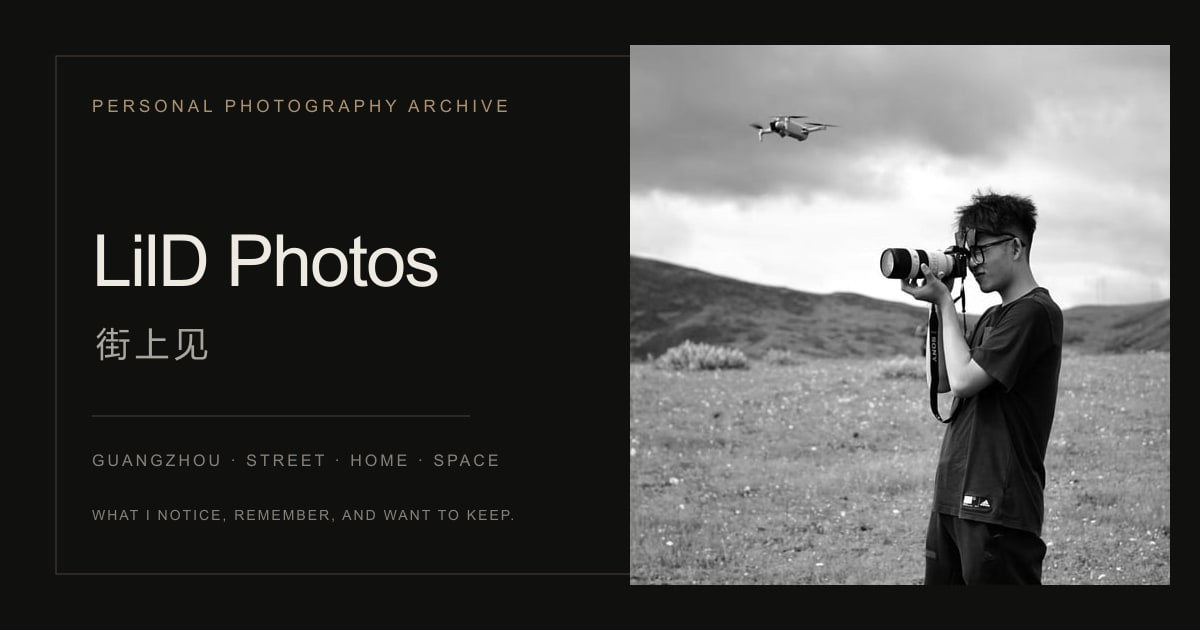
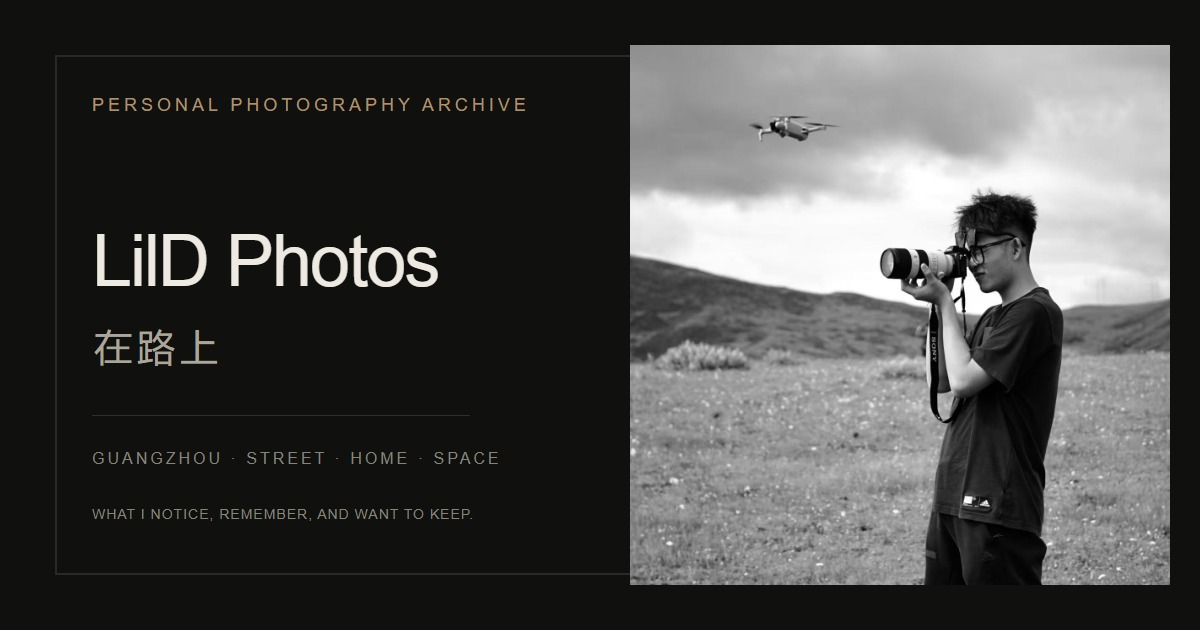
Rename site to On the Way and update author stories

diff --git a/index.html b/index.html
@@ -5,38 +5,38 @@
     <meta name="viewport" content="width=device-width, initial-scale=1" />
     <meta
       name="description"
-      content="LilD 的个人摄影作品集，记录广州街头、家乡、建筑、风光与旅途中的日常观察。"
+      content="在路上 · LilD 的个人摄影档案，记录街头、故乡、建筑与旅途。摄影之路仍在继续，下一组照片永远在路上。"
     />
     <meta name="theme-color" content="#10100f" />
     <meta name="color-scheme" content="dark" />
     <link rel="canonical" href="https://lhdfwoaini.github.io/lildphotos/" />
-    <meta property="og:title" content="LilD Photos｜街上见" />
+    <meta property="og:title" content="LilD Photos｜在路上" />
     <meta
       property="og:description"
-      content="LilD 的个人摄影作品集，记录广州街头、家乡、建筑、风光与旅途中的日常观察。"
+      content="在路上 · LilD 的个人摄影档案，记录街头、故乡、建筑与旅途。摄影之路仍在继续，下一组照片永远在路上。"
     />
     <meta property="og:type" content="website" />
     <meta property="og:url" content="https://lhdfwoaini.github.io/lildphotos/" />
     <meta
       property="og:image"
-      content="https://lhdfwoaini.github.io/lildphotos/share-cover.jpg"
+      content="https://lhdfwoaini.github.io/lildphotos/share-cover.jpg?v=20261112-on-the-way"
     />
     <meta property="og:image:width" content="1200" />
     <meta property="og:image:height" content="630" />
-    <meta property="og:image:alt" content="LilD Photos｜街上见个人摄影作品集" />
+    <meta property="og:image:alt" content="LilD Photos｜在路上个人摄影作品集" />
     <meta name="twitter:card" content="summary_large_image" />
-    <meta name="twitter:title" content="LilD Photos｜街上见" />
+    <meta name="twitter:title" content="LilD Photos｜在路上" />
     <meta
       name="twitter:description"
-      content="LilD 的个人摄影作品集，记录广州街头、家乡、建筑、风光与旅途中的日常观察。"
+      content="在路上 · LilD 的个人摄影档案，记录街头、故乡、建筑与旅途。摄影之路仍在继续，下一组照片永远在路上。"
     />
     <meta
       name="twitter:image"
-      content="https://lhdfwoaini.github.io/lildphotos/share-cover.jpg"
+      content="https://lhdfwoaini.github.io/lildphotos/share-cover.jpg?v=20261112-on-the-way"
     />
-    <meta name="twitter:image:alt" content="LilD Photos｜街上见个人摄影作品集" />
+    <meta name="twitter:image:alt" content="LilD Photos｜在路上个人摄影作品集" />
     <link rel="icon" href="favicon.svg" type="image/svg+xml" />
-    <title>LilD Photos｜街上见</title>
+    <title>LilD Photos｜在路上</title>
     <style>
       :root {
         --paper: #151310;
@@ -4641,12 +4641,19 @@
           max-width: none;
         }
       }
+
+      /* Longer author statements retain the existing About section and typography. */
+      .about-copy { grid-column: 2 / -1; min-width: 0; max-width: 68ch; }
+      .about-copy p { margin: 0 0 1.15em; line-height: 1.9; }
+      .about-copy .about-copyright { margin-bottom: 0; color: var(--text-muted); font-size: 0.82rem; }
+      #series-note, .lightbox-note { white-space: pre-line; }
+      @media (max-width: 1000px) { .about-copy { grid-column: 1 / -1; } }
     </style>
   </head>
   <body>
     <header class="site-header">
       <a class="wordmark" href="#home" aria-label="回到首页">
-        <span class="desktop-brand">街上见 <i aria-hidden="true">|</i> LilD Photos</span><span class="mobile-brand">LilD Photos</span>
+        <span class="desktop-brand">在路上 <i aria-hidden="true">|</i> LilD Photos</span><span class="mobile-brand">在路上 | LilD Photos</span>
       </a>
       <button
         class="menu-button"
@@ -4662,7 +4669,6 @@
         <a id="nav-home" href="#home">首页</a>
         <a id="nav-works" href="#works">作品</a>
         <a id="nav-series" href="#series-groups">栏目</a>
-        <a id="nav-notes" href="#notes">札记</a>
         <a id="nav-about" href="#about">关于</a>
       </nav>
     </header>
@@ -4679,7 +4685,7 @@
             <p class="about-positioning">
               我常住广州，也持续关注城市里的劳动者、熟悉的家乡，以及人在具体空间中短暂停留的样子。
             </p>
-            <p>希望这些照片，能让你看到我所看见的片刻。</p>
+            <p>摄影之路还远远没有结束，下一组照片，永远在路上。</p>
             <p class="about-english">A personal archive of what I notice, remember, and want to keep.</p>
             <a class="primary-link" href="#works">浏览作品 <span aria-hidden="true">↓</span></a>
           </div>
@@ -4711,32 +4717,19 @@
           <noscript>请在浏览器中启用 JavaScript，以查看摄影栏目和作品弹窗。</noscript>
         </section>
 
-        <section class="notes-section is-compact" id="notes" aria-labelledby="notes-title">
-          <div class="notes-index" aria-hidden="true">
-            <span>NOTE</span>
-            <span>FIELD NOTE</span>
-          </div>
-          <div class="notes-copy">
-            <p class="section-kicker">FIELD NOTE / 拍摄札记</p>
-            <h2 id="notes-title">拍摄札记，慢慢补充</h2>
-            <p class="notes-placeholder">这里将记录一些拍摄现场、构图选择和后来想起的事情。</p>
-          </div>
-        </section>
-
         <section class="about-section" id="about" aria-labelledby="about-title">
           <div>
             <p class="section-kicker">ABOUT / 关于</p>
-            <h2 id="about-title">一份持续生长的个人摄影档案</h2>
+            <h2 id="about-title">一份持续生长的<br />个人摄影档案</h2>
           </div>
-          <p>
-            这里收录不同阶段的摄影栏目、组图、拍摄札记和单幅解读。新的照片会继续加入，也会保留尚未完成的系列，让整理本身成为拍摄的一部分。
-          </p>
-          <p>
-            本站照片版权归作者所有，未经许可请勿转载、复制或用于商业用途。
-          </p>
+          <div class="about-copy">
+            <p>我把这个网站叫作“在路上”，因为自己的摄影之路还远远没有结束。这里收录不同阶段的栏目、组图与单幅解读，也保留尚未完成的系列。新的照片会继续加入，下一组照片，永远在路上。</p>
+            <p>好摄影从来没有唯一的标尺。有人痴迷于光影与构图的精巧，有人动容于故事里的人文温度，也有人被瞬间定格的视觉张力震撼，或偏爱作品背后的深刻思考。不同的人有不同的感受，摄影也没有一个标准答案。我希望这份档案能容纳这些不同的观看，也记录自己不断变化的理解。</p>
+            <p class="about-copyright">本站照片版权归作者所有，未经许可请勿转载、复制或用于商业用途。</p>
+          </div>
           <div class="next-series">
             <span>NEXT SERIES</span>
-            <strong>下一组照片，仍在路上</strong>
+            <strong>下一组照片，永远在路上</strong>
           </div>
         </section>
       </div>
@@ -4793,7 +4786,7 @@
     </main>
 
     <footer>
-      <a class="wordmark small" href="#home">街上见 | LilD Photos</a>
+      <a class="wordmark small" href="#home">在路上 | LilD Photos</a>
       <p>个人摄影作品集 · 持续更新</p>
       <p>© 2026 LilD Photos · 摄影作品版权归作者所有</p>
     </footer>
@@ -6627,6 +6620,35 @@
       updateWork("documentary", "04", {"scene": "华南理工大学国际校区"});
       updateWork("documentary", "06", {"scene": "广州 · 广交会展馆内"});
 
+
+      /* 2026-11-12 作者补充：在路上、栏目背景及单幅拍摄记录。 */
+      Object.assign(seriesById["tuoche-rensheng"], {"description": "从初中起在广州天河读书、生活，我熟悉这里的繁荣。搬到广州东站旁边后，沙河街头推车人的日夜奔波，让我看见了另一种同样真实的广州。", "note": "我在广州生活了很多年，从初中起就在天河区上学，也见惯了这里的繁荣与发展。后来搬到广州东站旁边，才开始注意到沙河街头那些每天推着手推车、日夜奔波的人。繁华的城市里，同样留下了普通劳动者为生活忙碌的痕迹。\n\n劳动人民也是广州的一部分。我想记录这份不常被外人看见的日常，让他们运货、合作、交流和休息时真实而有温度的一面被看见。我希望带着尊重靠近他们，不用镜头猎奇，也不把困境当作看点。这组关于推车与推车人的照片，就从这样的想法开始。"});
+      Object.assign(seriesById["xiangjian-hechu"], {"description": "春节回到英德龙头山，我用胶片记录饭前饭后走过的村庄。这是我尝试拍摄自己心中“乡土中国”的一组照片，也记录着我对家乡不断变化的理解。", "note": "我一直希望拍出一组自己满意的“乡土中国”。比起多么震撼的大片，这更接近我作为一个人文纪实摄影师的愿望。随着年龄和阅历增长，我对它的理解经历了很多变化：童年的记忆、如今更深入的认识，以及乡村本身的变迁，让我不断重新看待家乡。这组照片，是一次初步尝试。\n\n我三四岁时离开家乡去英德生活，每逢过年仍会回来探望奶奶，和亲戚一起吃团圆饭。饭前饭后，我就带着胶片机出去走走。村里的年轻人大多已经外出，逢年过节才回来；照片里看似热闹的春节，一过完，村子又会归于寂静。我想留下的，是自己眼中家乡真实的样子。"});
+      Object.assign(seriesById["architecture"], {"description": "空间结构、线条和光影总能吸引我。无论建筑的局部还是整体，我都喜欢寻找其中的秩序，以及人和天空进入这些结构时的变化。", "note": "我是 INTJ，虽然没有学过建筑，却一直对空间结构、线条和光影很着迷。建筑的局部和整体都能带来拍摄灵感：一段楼梯、一片立面，或者抬头时被楼宇围出的天空。\n\n这里有不少照片拍于华南理工大学国际校区，我很喜欢那里新颖的设计和特别的立面。另一些照片是在楼宇内部向上拍的：规整的线条围住天空，飞机从中经过。我喜欢把这些结构与短暂出现的细节一起留在画面里。"});
+      Object.assign(seriesById["landscape"], {"description": "我的摄影爱好从风光开始。寻找机位、安排构图、学习参数，再到后期处理，这些步骤让我一点点熟悉摄影，也让我一直喜欢等待日落与晚霞。", "note": "刚入门摄影时，我拍得最多的是风光。拍摄前要了解机位，到现场后要考虑构图、参数和光线，拍完还要琢磨怎样做后期。每个环节都需要准备和练习，这对我学习摄影帮助很大。\n\n街头拍摄常常要回应眼前突然发生的瞬间，风光拍摄则让我学会提前规划和耐心等待。这里选了几张日落、晚霞的画面，因为我始终觉得，傍晚天空的颜色非常迷人。"});
+      Object.assign(seriesById["shandong"], {"description": "2025 年 8 月，我跟女朋友回山东探亲，也去了青岛和烟台。海边、建筑和晚霞留在照片里，其中烟台带给我的舒适与松弛，至今印象很深。", "note": "女朋友是山东人。2025 年 8 月，我跟她回家，也趁这次机会去了青岛和烟台。旅途中我最喜欢烟台：它让我想到广东的珠海，但对我来说，那片海带来的舒适感还要更强一些。珠海已经很安逸，烟台却让我更愿意慢下来。\n\n这里很多照片都拍于烟台：时光塔里的明暗、塔外女朋友的身影、长曝光下的海面，还有那天让我一直记着的满天红霞。它们是这趟旅程里，我想留下的具体片刻。", "location": "山东 · 青岛与烟台"});
+      Object.assign(seriesById["shenzhen"], {"description": "深圳离广州不远，却总让我这个老广感到节奏很快。这里新颖的建筑、空间与光线，又不断吸引我过去走走、拍拍。", "note": "每次去深圳，我都能感受到它飞快的发展和生活节奏，让我这个传统老广有一点不太适应。但这里前沿的设计和很有想法的建筑，又总能吸引我拿起相机。\n\n最近去深圳湾文化馆，里面大块的暖色形状、特别的窗洞和穿进来的光，让我很感兴趣。我拍下人在这些建筑空间里的位置，也继续寻找结构、光线和人物之间的关系。"});
+      Object.assign(seriesById["zhuhai"], {"description": "一个本科舍友在珠海生活，我们有时会过去相聚。聚会和闲逛之间，海边的建筑、台阶与日月贝，也成了我留下这座城市的方式。", "note": "我的一个本科舍友住在珠海，所以我们有时会去那里聚一聚，也顺便走走、拍照。我们拍过阿那亚那些很特别的建筑，也拍过日月贝。\n\n我很喜欢日月贝的形状，换一个机位、走到海边，或者把无人机升起来，又会看到不一样的画面。这个栏目里，和朋友相聚的经历与这些建筑、海面的印象留在了一起。"});
+      Object.assign(seriesById["hong-kong"], {"description": "和一位本科舍友同行，我拍下香港的老街、建筑与穿行的人流。这座城市浓厚的旧日痕迹，以及中环忙碌的街头，都给我留下了很深的印象。", "note": "这组照片来自我和一位本科舍友的香港之行。香港给我的第一感觉是“旧”：这座很早就发展起来的城市，在街景和建筑里保留了很多年月留下的痕迹，也有很鲜明的港味。\n\n我借鉴过何藩作品里的观看方式，也尝试用自己的快门记录眼前的城市。最满意的照片之一是《Busy》：我在中环用慢门留下人们穿过街道的身影，让路面清晰的提示字样与流动的人群，一起呈现忙碌的感觉。"});
+      updateWork("tuoche-rensheng", "01", {"summary": "盖着布的推车安静地沿墙停放。这一次，画面里只有人们谋生的工具，没有使用它们的人。", "note": "平时拍推车，我的画面里总离不开人。这一次，我特意只拍车，把人们谋生、工作的工具从人物身边单独记录下来。它们被布盖着，安安静静地停在墙边的角落。我想从这份安静开始，再走近使用它们的人，所以把它放在组图的第一张。"});
+      updateWork("tuoche-rensheng", "02", {"summary": "一个人坐着向左看，另一个人站着朝右望，推车与两个人一起停在路口，形成彼此呼应的关系。", "note": "两个人朝着不同方向，一个坐着，一个站着，推车把他们连接在同一个画面里。我从这个站位中感受到一种合作、彼此依靠的意味。\n\n路面通常留给机动车通行，推车停在其中，让我格外留意。在广州沙河，还能看到一些手推车被加装电动装置，像没有外壳的电动车，载货方便、使用灵活，成为劳动者日常运送货物的一种工具。这也是我想记录的沙河街头生活。"});
+      updateWork("tuoche-rensheng", "03", {"summary": "落日余晖照进桥下，几个人坐在推车上聊天，日常停靠的地方也成了交流与休息的位置。", "note": "落日余晖里，他们三五成群地坐在推车上交流。推车在这时成了可以一起坐下、说几句话的地方。我觉得这一幕很温暖，就把光线、人物和桥下的空间一起留下来。"});
+      updateWork("tuoche-rensheng", "04", {"summary": "早晨的树荫下，推车从近处排向远处。等开工的人在车上坐下或躺着，暂时歇一歇。", "note": "这是早晨等开工时的场景。从近处到远处，都能看见推车的身影，有人已经躺在车上休息。我把前后这些车和人一起留进画面，记录开工之前这段暂时停下来的时间。"});
+      updateWork("tuoche-rensheng", "05", {"summary": "桥下休息的人与推车分布在前景、中景和远处，三处位置相互呼应，形成一个三角形构图。", "note": "这一幕和树下等工的场景相近，但我特意选择了这个角度。前景、中景和背景里的三处人物与推车，形成远、中、近的三角形呼应。我想把他们休息的状态和这层空间关系一起拍下来。"});
+      updateWork("tuoche-rensheng", "06", {"summary": "一个人拖着推车向前，旁边另一辆相仿的车留在画面里，两辆车的形状与位置相互呼应。", "note": "为了拍到他带着推车前行的样子，我跟着走了一路。恰好旁边还有另一辆相仿的推车，我特意把两辆车都纳入构图，让它们的形状和前后位置形成呼应，也留下这个人继续上路的背影。"});
+      updateWork("architecture", "01", {"scene": "华南理工大学国际校区", "note": "我很喜欢国际校区的建筑。接近日落时，长立面只接住少量亮光，前方撑伞的人很小，却让整栋楼的尺度一下清楚。我按下快门，是因为建筑横向延伸的重量和人物经过的轻巧刚好同时出现。"});
+      updateWork("architecture", "02", {"scene": "华南理工大学国际校区"});
+      updateWork("architecture", "03", {"scene": "华南理工大学国际校区"});
+      updateWork("architecture", "04", {"scene": "华南理工大学国际校区"});
+      updateWork("shandong", "02", {"scene": "烟台 · 时光塔内部", "note": "这张拍于烟台时光塔内部。我把建筑内部压成黑色，只让小门、地面光带和外面场景留下细节。人物从门口经过时，身体和影子同时进入亮区，我抓住了这个时间点。真正吸引我的是建筑局部如何被光线打开。"});
+      updateWork("shandong", "03", {"scene": "烟台 · 时光塔内部", "note": "这张同样拍于烟台时光塔内部。我等到提桶的清洁工从暗处走出来才按下快门。弧形出口已经把地面照亮，人物正好进入明暗交界，轮廓边缘出现一圈光。我想留下的是这个经过的时机，以及人物和光的位置。"});
+      updateWork("shandong", "04", {"scene": "烟台 · 时光塔外", "summary": "女朋友走过时光塔外的开阔场地，大片天空和地面围绕着小小的身影展开。", "note": "画面里是我的女朋友，这张拍于烟台时光塔外。我把大部分画面留给天空和地面，让她只占其中很小的一部分。迈起的脚和张开的手臂，在空旷背景前变得清楚；我很喜欢这种小人物与大背景之间的比例。"});
+      updateWork("shandong", "05", {"scene": "烟台 · 海边", "note": "我在烟台海边，用长曝光把海面细小的波动压平，再转成黑白，让几根旧桩的高低、间隔和位置留在平滑的水面上。这种简洁、安静的感觉，让我想到杉本博司的《海景》系列。我喜欢的也是画面被简化之后，海面与线条之间的关系。"});
+      updateWork("shandong", "07", {"scene": "烟台 · 海边观景平台", "summary": "烟台的晚霞铺满海面上方，长曝光让水面与平台上经过的人影变得柔和。", "note": "我至今记得那天烟台满天的红霞，现场的震撼感一直留在记忆里。在我平日生活的广东，很少遇到这样的天空。我保留了晚霞的颜色，用长曝光让海面平缓下来，也让平台上经过的人留下流动的痕迹。"});
+      updateWork("hong-kong", "01", {"note": "这张照片借鉴了何藩曾在这里拍摄的楼梯作品。我对准楼梯中轴，等待左右两侧分别有人上行和下行。人物方向相反，扶手与台阶形成近似对称；我想用这一次遇到的人和经过的时机，回应自己喜欢的观看方式。"});
+      updateWork("hong-kong", "04", {"title": "Busy", "scene": "香港 · 中环街头", "summary": "中环街头，上下班的人流在慢门里留下移动的痕迹，路面“望左”“望右”的提示仍清楚地留在原处。", "note": "这是这趟香港之行里，我比较满意的一张。我在中环用较慢的快门，拍下人们上下班穿过街道的景象。路面的“望左”“望右”提醒行人留意车辆，人群却在画面里变成流动的身影。我想呈现这种不断穿行、忙碌不停的感觉，所以把它叫作《Busy》。"});
+      updateWork("zhuhai", "01", {"note": "和本科舍友在珠海相聚时，我们也去拍了这处与阿那亚有关的建筑。白色小屋落在草坡最高处，我用低机位让坡面先占据前景，再把建筑放到天空边缘，留下它清楚、特别的形状。"});
+
       const preferredSeriesOrder = [
         "tuoche-rensheng",
         "xiangjian-hechu",
@@ -6650,7 +6672,7 @@
       });
       seriesList.splice(0, seriesList.length, ...orderedSeries);
 
-      const defaultTitle = "LilD Photos｜街上见";
+      const defaultTitle = "LilD Photos｜在路上";
       const homeView = document.getElementById("home-view");
       const seriesView = document.getElementById("series-view");
       const landscapeSeriesGrid = document.getElementById("landscape-series-grid");
@@ -6961,7 +6983,6 @@
             home: "nav-home",
             works: "nav-works",
             "series-groups": "nav-series",
-            notes: "nav-notes",
             about: "nav-about"
           };
         setActiveNavigation(activeNavigation[targetId || "home"] || "");
@@ -6983,7 +7004,7 @@
         renderSeriesDetail(series);
         homeView.hidden = true;
         seriesView.hidden = false;
-        document.title = `${series.title}｜LilD Photos`;
+        document.title = `${series.title}｜在路上 · LilD Photos`;
         setActiveNavigation("nav-series");
         window.scrollTo(0, 0);
       }
@@ -7001,7 +7022,7 @@
           }
         }
 
-        const homeTargets = ["home", "works", "series-groups", "notes", "about"];
+        const homeTargets = ["home", "works", "series-groups", "about"];
         showHome(homeTargets.includes(hash) ? hash : "home");
       }
 

diff --git a/404.html b/404.html
@@ -7,7 +7,7 @@
     <meta name="color-scheme" content="dark" />
     <meta name="robots" content="noindex" />
     <link rel="icon" href="favicon.svg" type="image/svg+xml" />
-    <title>页面没有找到｜LilD Photos</title>
+    <title>页面没有找到｜在路上 · LilD Photos</title>
     <style>
       :root {
         color-scheme: dark;
@@ -93,7 +93,7 @@
   </head>
   <body>
     <main>
-      <p class="kicker">404 / LILD PHOTOS</p>
+      <p class="kicker">404 / 在路上 · LILD PHOTOS</p>
       <h1>页面没有找到</h1>
       <p>这个地址没有对应的页面。你可以回到首页，或直接继续浏览精选栏目。</p>
       <nav aria-label="错误页面导航">

diff --git a/README.md b/README.md
@@ -1,6 +1,6 @@
-# LilD Photos｜街上见
+# LilD Photos｜在路上
 
-LilD 的个人摄影作品集，记录广州街头、家乡、建筑、风光与旅途中的日常观察。
+在路上，是 LilD 持续生长的个人摄影档案。摄影之路还远远没有结束，下一组照片永远在路上。
 
 正式网站：
 
